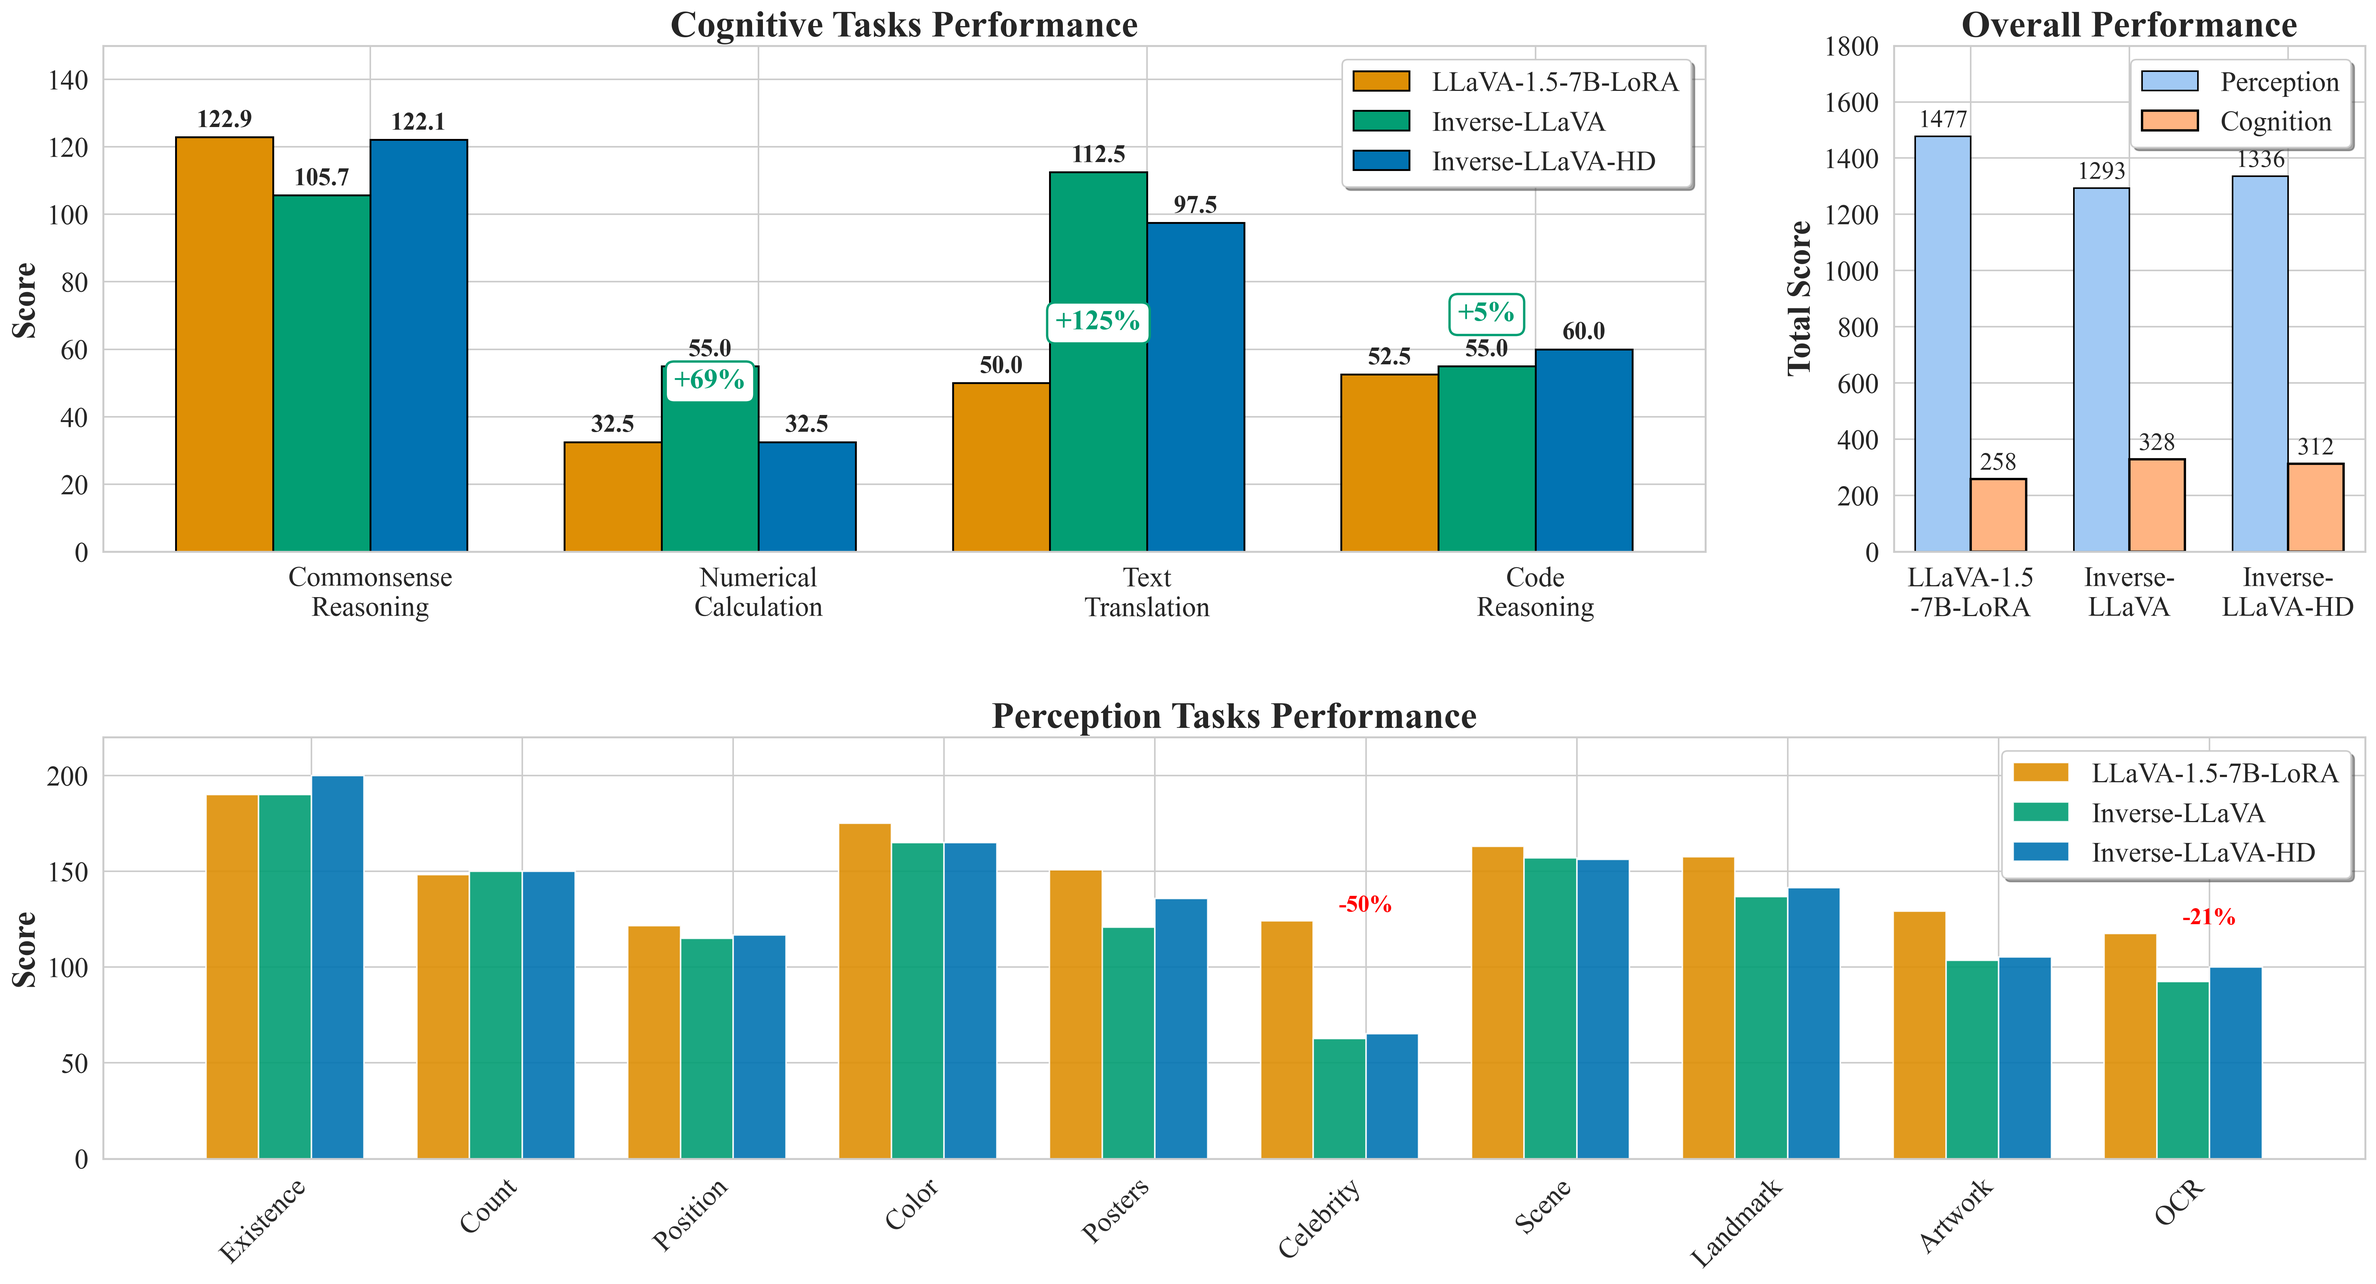
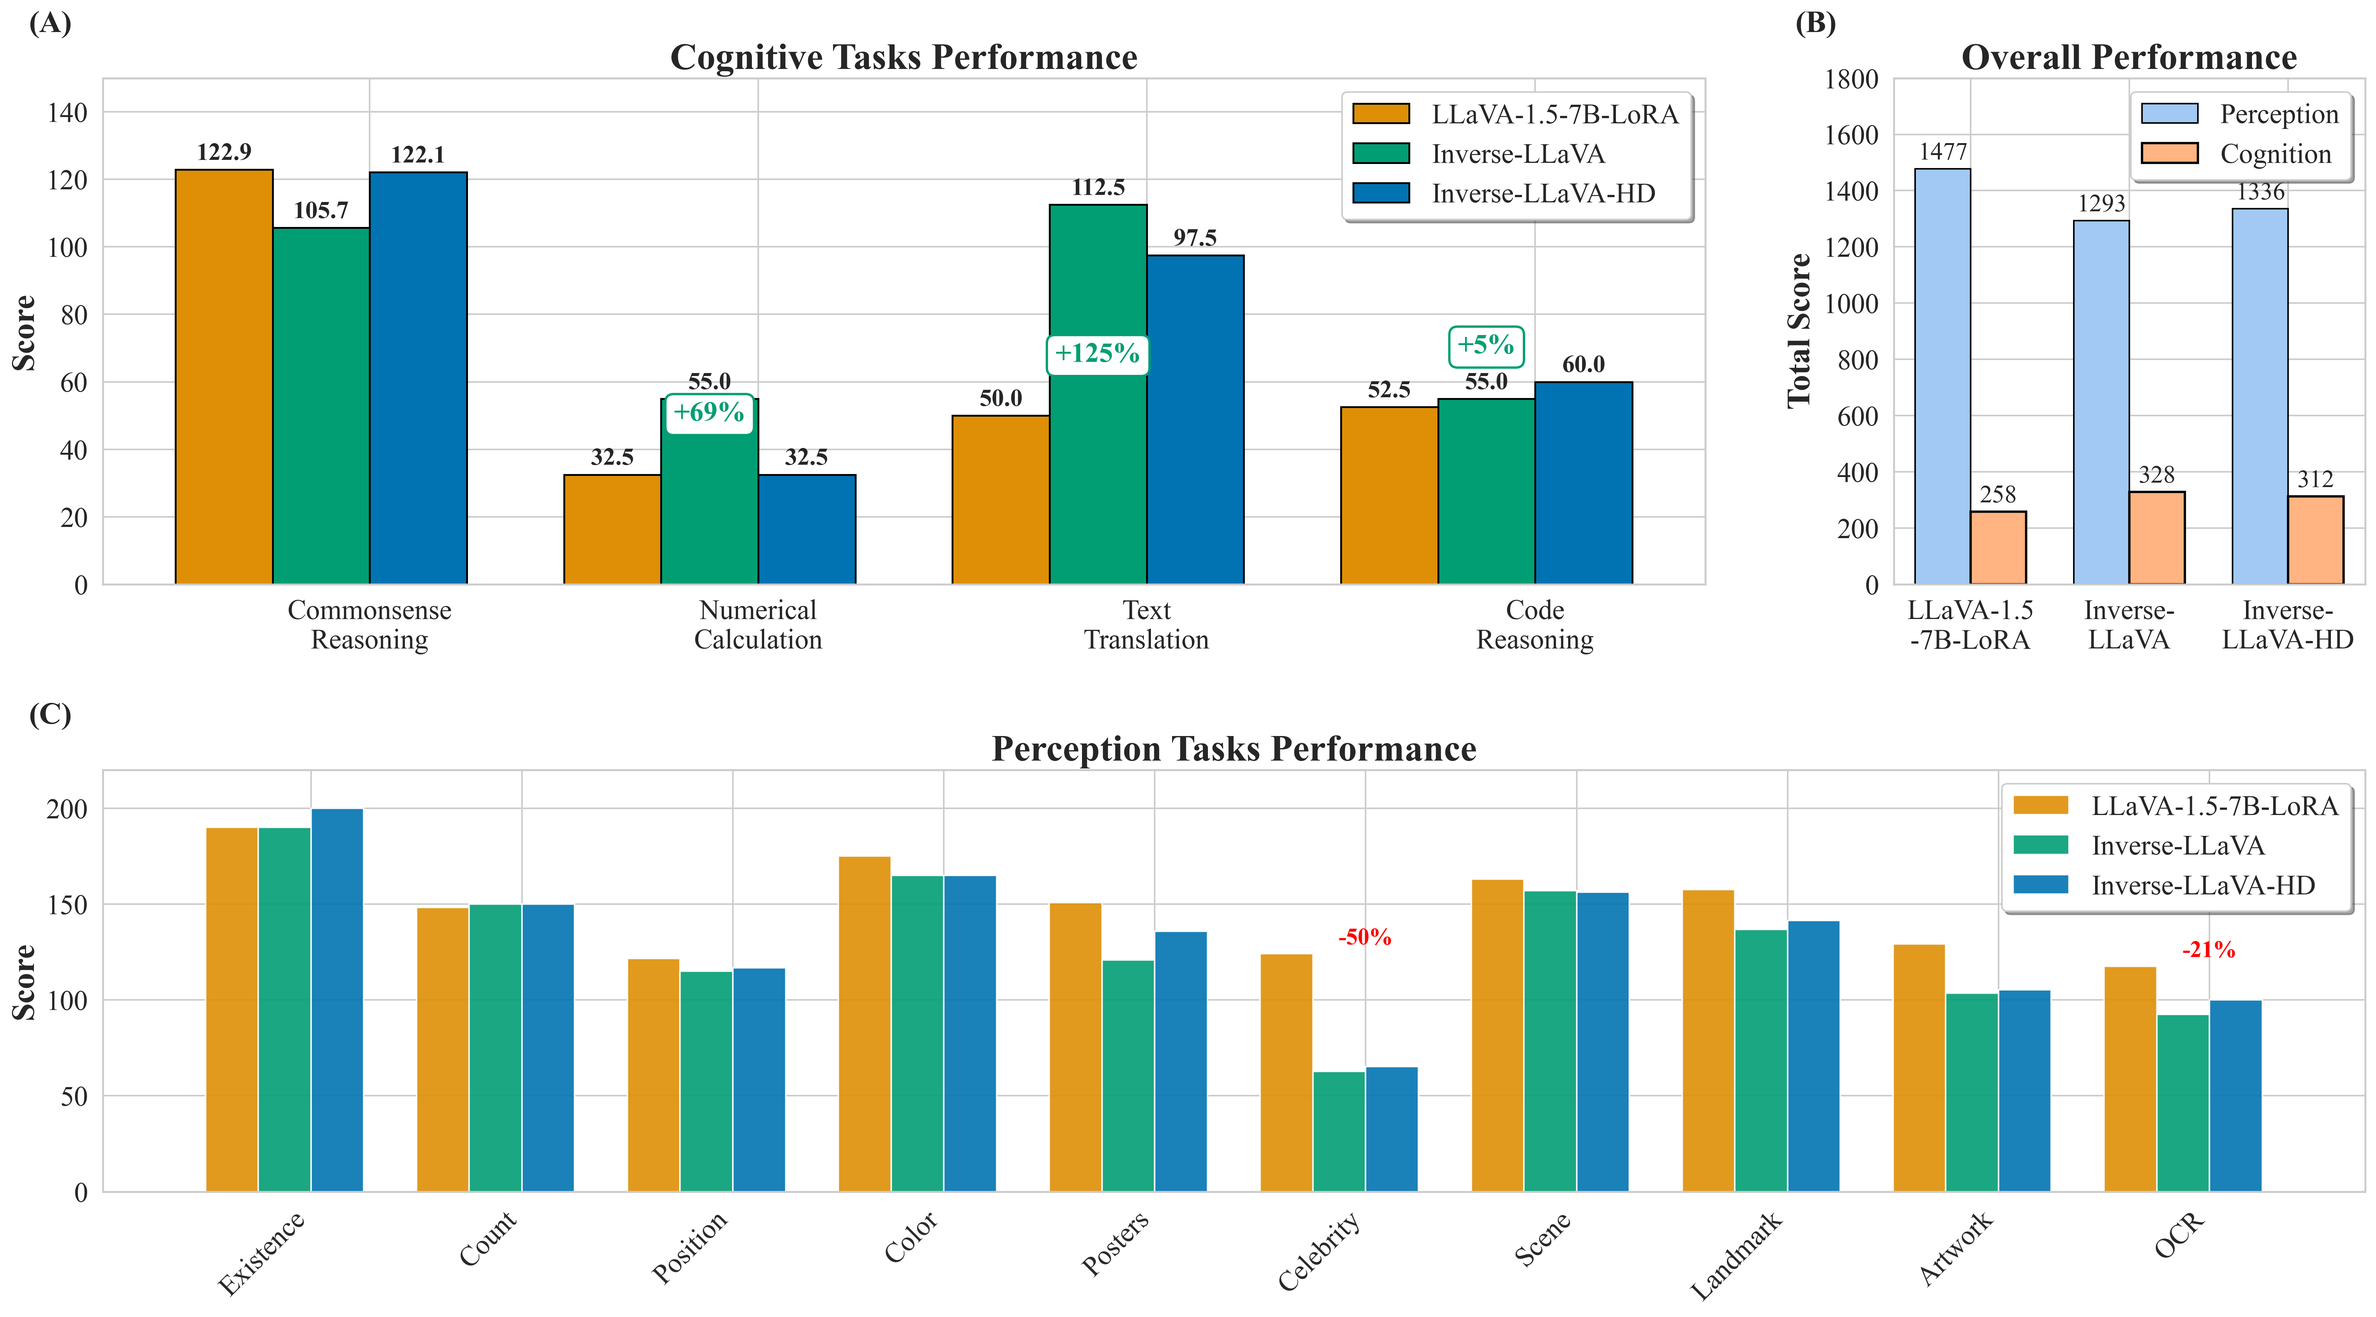
updated to the new version

diff --git a/index.html b/index.html
@@ -3,7 +3,7 @@
 
 <head>
   <meta charset="utf-8">
-  <meta name="description" content="Inverse-LLaVA: Eliminating Alignment Pre-training Through Text-to-Vision Mapping">
+  <meta name="description" content="Inverse-LLaVA: Rethinking Multimodal Alignment via Text-to-Vision Mapping">
   <meta name="keywords" content="multimodal, llm, vlm">
   <meta name="viewport" content="width=device-width, initial-scale=1">
   <title>Inverse-LLaVA</title>
@@ -30,7 +30,7 @@
       <div class="container is-max-desktop">
         <div class="columns is-centered">
           <div class="column has-text-centered">
-            <h1 class="title is-1 publication-title">Inverse-LLaVA: Eliminating Alignment Pre-training Through Text-to-Vision Mapping</h1>
+            <h1 class="title is-1 publication-title">Inverse-LLaVA: Rethinking Multimodal Alignment via Text-to-Vision Mapping</h1>
             <div class="is-size-5 publication-authors">
               <span class="author-block">
                 <a href="https://xuhuizhan5.github.io/" style="color:#f68946;font-weight:normal;">Xuhui Zhan</a>,
@@ -75,9 +75,9 @@
   <section class="hero teaser">
     <div class="container is-max-desktop">
       <div class="hero-body">
-        <img id="teaser" width="100%" src="static/images/overview.png">
+        <img id="overview" width="100%" src="static/images/overview.png" alt="Comparison of the LLaVA and Inverse-LLaVA information flows on an MME benchmark example.">
         <h4 class="subtitle has-text-centered">
-            High-level overview of the proposed Inverse-LLaVA framework on an MME benchmark example. (a) LLaVA projects visual features into discrete text space via an explicit projection (red), requiring alignment pre-training, and produces the wrong answer (”Yes”). (b) Inverse-LLaVA maps text embeddings into continuous vision space for fusion, eliminating alignment pre-training, and yields the correct answer (”No”). <span style='color:blue'>Blue</span> indicates vision flow, <span style='color:green'>green</span> indicates text flow, <span style='color:red'>red</span> denotes explicit projection, <span style='color:purple'>purple</span> represents LLM components and <span style='color:orange'>orange</span> represents the LLM output.
+            High-level overview of the proposed Inverse-LLaVA framework on an MME benchmark example. (a) LLaVA projects visual features into discrete text space via an explicit projection (red), requiring alignment pre-training, and produces the wrong answer ("Yes"). (b) Inverse-LLaVA maps text embeddings into continuous vision space for fusion, eliminating alignment pre-training, and yields the correct answer ("No"). <span style="color:blue">Blue</span> indicates vision flow, <span style="color:green">green</span> indicates text flow, <span style="color:red">red</span> denotes explicit projection, <span style="color:purple">purple</span> represents LLM components, and <span style="color:orange">orange</span> indicates LLM output.
         </h4>
       </div>
     </div>
@@ -91,7 +91,7 @@
           <h2 class="title is-3">Abstract</h2>
           <div class="content has-text-justified">
             <p>
-              Traditional multimodal learning approaches require expensive alignment pre-training to bridge vision and language modalities, typically projecting visual features into discrete text token spaces. We challenge both fundamental assumptions underlying this paradigm by proposing Inverse-LLaVA, a novel approach that eliminates alignment pre-training entirely while inverting the conventional mapping direction. Rather than projecting visual features to text space, our method maps text embeddings into continuous visual representation space and performs fusion within transformer intermediate layers. Through selective additive components in attention mechanisms, we enable dynamic integration of visual and textual representations without requiring massive image-text alignment datasets. Comprehensive experiments across nine multimodal benchmarks demonstrate nuanced performance trade-offs: Inverse-LLaVA achieves notable improvements on reasoning-intensive and cognitive tasks (MM-VET: +0.2%, VizWiz: +1.8%, ScienceQA: +0.2%, cognitive reasoning: +27.2%), while showing expected decreases in perception tasks requiring memorized visual-text associations (celebrity recognition: -49.5%, OCR: -21.3%). These results provide the first empirical evidence that alignment pre-training is not necessary for effective multimodal learning, particularly for complex reasoning tasks. Our work establishes the feasibility of a new paradigm that reduces computational requirements by 45%, challenges conventional wisdom about modality fusion, and opens new research directions for efficient multimodal architectures that preserve modality-specific characteristics.
+              Traditional multimodal learning approaches rely on alignment pre-training to bridge vision and language modalities, typically by projecting visual features into discrete text token spaces using large-scale image–text data. We revisit this design choice and propose <strong>Inverse-LLaVA</strong>, a multimodal architecture that inverts the conventional mapping direction by projecting text embeddings into continuous visual representation space and performing fusion within intermediate transformer layers. This representation-first design enables effective multimodal reasoning without relying on an explicit alignment pretraining stage and significantly reduces dependence on large alignment datasets. Across nine multimodal benchmarks, Inverse-LLaVA demonstrates strong learning efficiency under reduced supervision, achieving substantial gains on reasoning-intensive tasks while exhibiting selective performance drops on perception tasks that depend on explicit visual–text grounding. Our analysis indicates that these trade-offs primarily reflect differences in supervision regime rather than architectural limitations. Together, these results show that alignment pretraining is not strictly required for effective multimodal reasoning and highlight the importance of preserving continuous modality representations, opening a new direction for multimodal architecture design that decouples representation structure from supervision regime for more flexible and efficient multimodal systems.
            </p>
           </div>
         </div>
@@ -108,10 +108,10 @@
         </div>
         <div class="columns is-centered">
             <div class="column is-full-width">
-                <img id="teaser" width="100%" src="static/images/Inverse_llava_structure_illustration-2.png">
+                <img class="paper-figure" width="100%" src="static/images/Inverse_llava_structure_illustration.png" alt="Architecture and training comparison between LLaVA and Inverse-LLaVA.">
                 <div class="content has-text-justified">
                     <p>
-                        Architecture comparison between LLaVA and Inverse-LLaVA. LLaVA employs a two-stage training approach with alignment pretraining followed by instruction fine-tuning, where vision and text tokens are concatenated before being fed to the LLM. In contrast, Inverse-LLaVA uses single-stage training with text-guided visual fusion in intermediate layers, where vision information is integrated through learnable text-to-vision projections and combined with original hidden states via residual connections.
+                        <strong>Architecture comparison between LLaVA and Inverse-LLaVA.</strong> LLaVA employs a two-stage training approach with alignment pre-training followed by instruction fine-tuning, where vision and text tokens are concatenated before being fed to the LLM. In contrast, Inverse-LLaVA uses single-stage training with text-guided visual fusion in intermediate layers, where vision information is integrated through learnable text-to-vision projections and combined with original hidden states via residual connections. Fire icons denote trainable components, while snowflake icons denote frozen components.
                     </p>
                 </div>
             </div>
@@ -130,11 +130,11 @@
             <div class="column is-full-width">
                 <h3 class="title is-4">Visual Information Preservation Through Inverse Mapping</h3>
                 <p class="content has-text-justified">
-                    Table 1 demonstrates that our inverse mapping approach achieves competitive performance across nine vision-language benchmarks while fundamentally rethinking how modalities interact. Unlike conventional methods that compress visual features to match text distributions, we project text embeddings into the richer visual space, preserving spatial relationships and fine-grained visual details.
-                    The results reveal selective advantages: Inverse-LLaVA outperforms LLaVA-1.5 on MM-VET (31.2 vs 31.1), VizWiz (50.95 vs 50.0), and notably on ScienceQA-IMG (67.84 vs 66.80). However, we observe consistent degradation on tasks requiring precise visual-text alignment, including TextVQA (52.02 vs 58.2) and GQA (58.46 vs 62.0). This performance pattern suggests our approach excels at reasoning tasks while struggling with direct visual-linguistic correspondence.
+                    Table 1 shows that the inverse mapping strategy achieves competitive performance across nine vision–language benchmarks while fundamentally rethinking cross-modal interaction. Rather than compressing visual features to conform to the discrete structure of text tokens, our method projects textual embeddings into the visual feature space. This design preserves spatial structure and fine-grained visual information that may otherwise be lost during discretization.
+                    The results reveal advantages: Inverse-LLaVA outperforms LLaVA-1.5 on MM-VET (31.2 vs 31.1), VizWiz (50.95 vs 50.0), and ScienceQA-IMG (67.84 vs 66.80). However, we observe consistent degradation on tasks requiring precise visual–text alignment, including TextVQA (52.02 vs 58.2) and GQA (58.46 vs 62.0). This performance pattern suggests our approach excels at reasoning tasks while struggling with direct visual–linguistic correspondence.
                 </p>
                 <table class="table is-striped is-fullwidth">
-                    <caption><b>Table 1: Performance comparison of vision-language models using Vicuna-7B as the backbone LLM across multiple vision-language benchmarks.</b> We evaluate models on MM-VET; VizWiz; SQA-IMG; MMBench; MMBench-CN; MME-Perception; VQA-v2; TextVQA; GQA. <b>Bold</b> indicates the best performance and <u>underlined</u> indicates the second-best performance in each benchmark. "-" denotes unreported results or experiments not conducted due to computational constraints.</caption>
+                    <caption><b>Table 1: Performance comparison of vision-language models using Vicuna-7B as the backbone LLM across multiple vision-language benchmarks.</b> We evaluate models on MM-VET; VizWiz; SQA<sup>I</sup>: ScienceQA-IMG; MMB: MMBench; MMB<sup>CN</sup>: MMBench-CN; MME<sup>p</sup>: MME-Perception; VQA<sup>V2</sup>: VQA-v2; VQA<sup>T</sup>: TextVQA; and GQA. <b>Bold</b> indicates the best performance and <u>underlined</u> indicates the second-best performance in each benchmark. "-" denotes unreported results or experiments not conducted due to computational constraints.</caption>
                     <thead>
                         <tr>
                             <th>Model</th>
@@ -199,7 +199,7 @@
                             <td>60.8</td>
                         </tr>
                         <tr>
-                            <td>Inverse-LLaVA</td>
+                            <td>Inverse-LLaVA (Ours)</td>
                             <td><b>31.2</b></td>
                             <td><u>50.95</u></td>
                             <td><b>67.84</b></td>
@@ -211,7 +211,7 @@
                             <td>58.46</td>
                         </tr>
                         <tr>
-                            <td>Inverse-LLaVA-HD</td>
+                            <td>Inverse-LLaVA-HD (Ours)</td>
                             <td>-</td>
                             <td>-</td>
                             <td>-</td>
@@ -226,7 +226,7 @@
                 </table>
                 <br>
                 <table class="table is-striped is-fullwidth">
-                    <caption><b>Table 2: Training data comparison.</b> #Samples indicates the number of samples used in alignment pre-training and instruction fine-tuning stages respectively.</caption>
+                    <caption><b>Table 2: Training data usage comparison.</b> #Samples indicates the number of samples used in the alignment pre-training and instruction fine-tuning stages.</caption>
                     <thead>
                         <tr>
                             <th>Model</th>
@@ -256,17 +256,17 @@
                             <td>665K</td>
                         </tr>
                         <tr>
-                            <td>Inverse-LLaVA</td>
+                            <td>Inverse-LLaVA (Ours)</td>
                             <td>0</td>
                             <td>665K</td>
                         </tr>
                     </tbody>
                 </table>
                 <br>
-                <img id="teaser" width="100%" src="static/images/mme_benchmark_analysis.png">
+                <img class="paper-figure" width="100%" src="static/images/mme_benchmark_analysis.png" alt="MME cognitive, overall, and perception task results for LLaVA-1.5 and Inverse-LLaVA variants.">
                 <div class="content has-text-justified">
                     <p>
-                        MME Benchmark Analysis comparing LLaVA-1.5-7B-LoRA, Inverse-LLaVA, and Inverse-LLaVA-HD across cognitive and perception tasks in the MME benchmark. Left (top): Cognitive tasks performance showing Inverse-LLaVA achieving superior performance in numerical calculation (+69%) and text translation (+125%) compared to the baseline LLaVA-1.5-7B-LoRA model. Right (top): Overall performance comparison. Bottom: Perception tasks evaluation shows that Inverse-LLaVA variants excel in Existence and Count tasks, with Inverse-LLaVA-HD achieving perfect performance on Existence tasks. However, significant performance drops in Celebrity recognition (-50%) and OCR tasks (-21%) primarily account for the overall perception score gap. The results indicate that inverse training maintains strong cognitive capabilities while showing task-specific effects on perception.
+                        <strong>MME benchmark analysis</strong> comparing LLaVA-1.5-7B-LoRA, Inverse-LLaVA, and Inverse-LLaVA-HD across cognitive and perception tasks in the MME benchmark. <strong>(A)</strong> Cognitive task performance, where Inverse-LLaVA outperforms the baseline in numerical calculation (+69%) and text translation (+125%). <strong>(B)</strong> Overall performance comparison. <strong>(C)</strong> Perception task evaluation, showing strong performance of Inverse-LLaVA variants on Existence and Count tasks, with Inverse-LLaVA-HD achieving perfect Existence scores. Performance drops in Celebrity recognition (-50%) and OCR (-21%) account for most of the overall perception gap. Overall, inverse training preserves cognitive performance while exhibiting task-specific effects on perception.
                     </p>
                 </div>
             </div>
@@ -280,7 +280,7 @@
       <h2 class="title">BibTeX</h2>
       <pre><code>
 @article{zhan2025inverse,
-  title={Inverse-LLaVA: Eliminating Alignment Pre-training Through Text-to-Vision Mapping},
+  title={Inverse-LLaVA: Rethinking Multimodal Alignment via Text-to-Vision Mapping},
   author={Zhan, Xuhui and Derr, Tyler},
   journal={arXiv preprint arXiv:2508.12466},
   year={2025}
